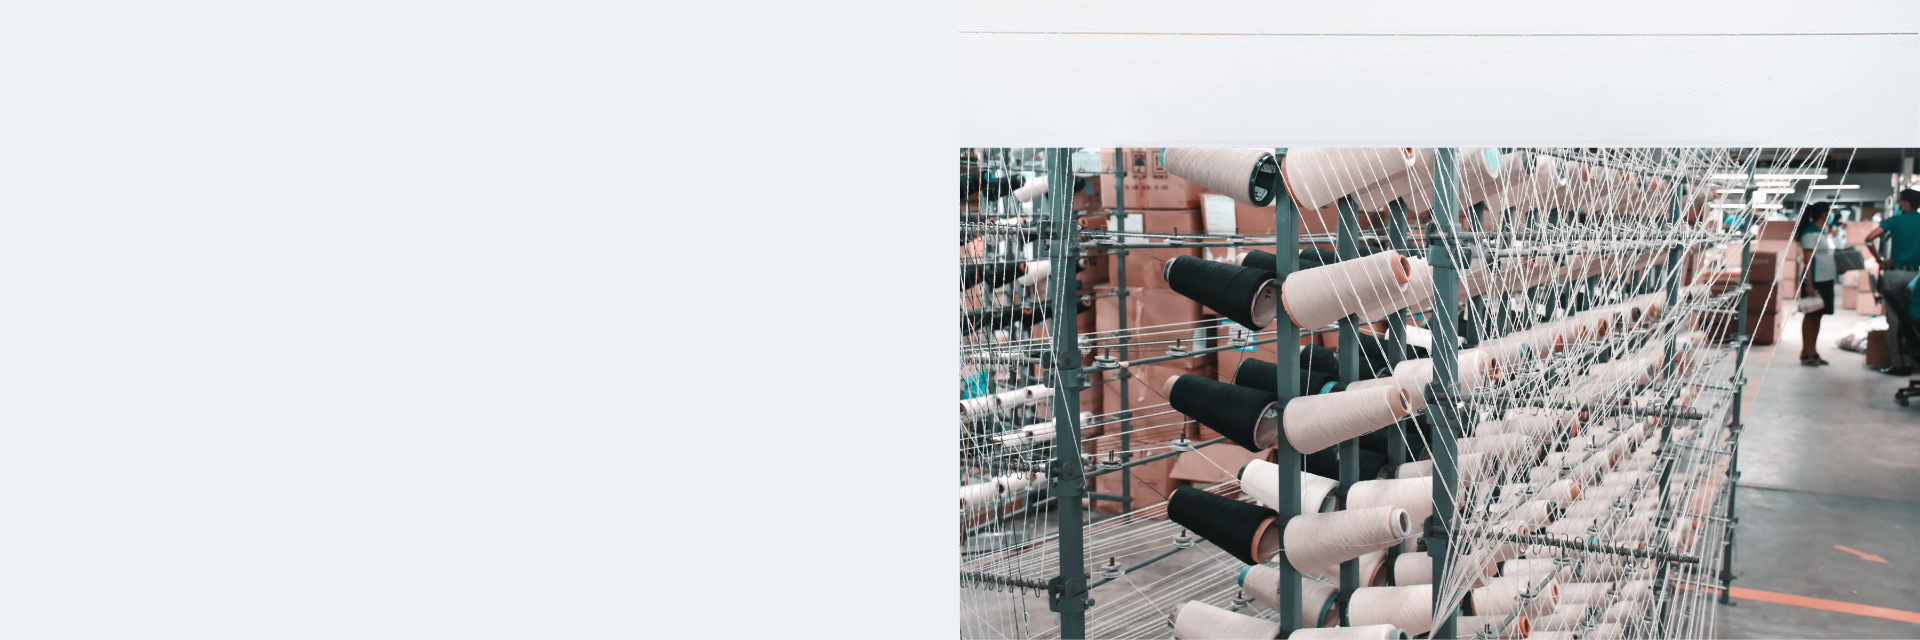
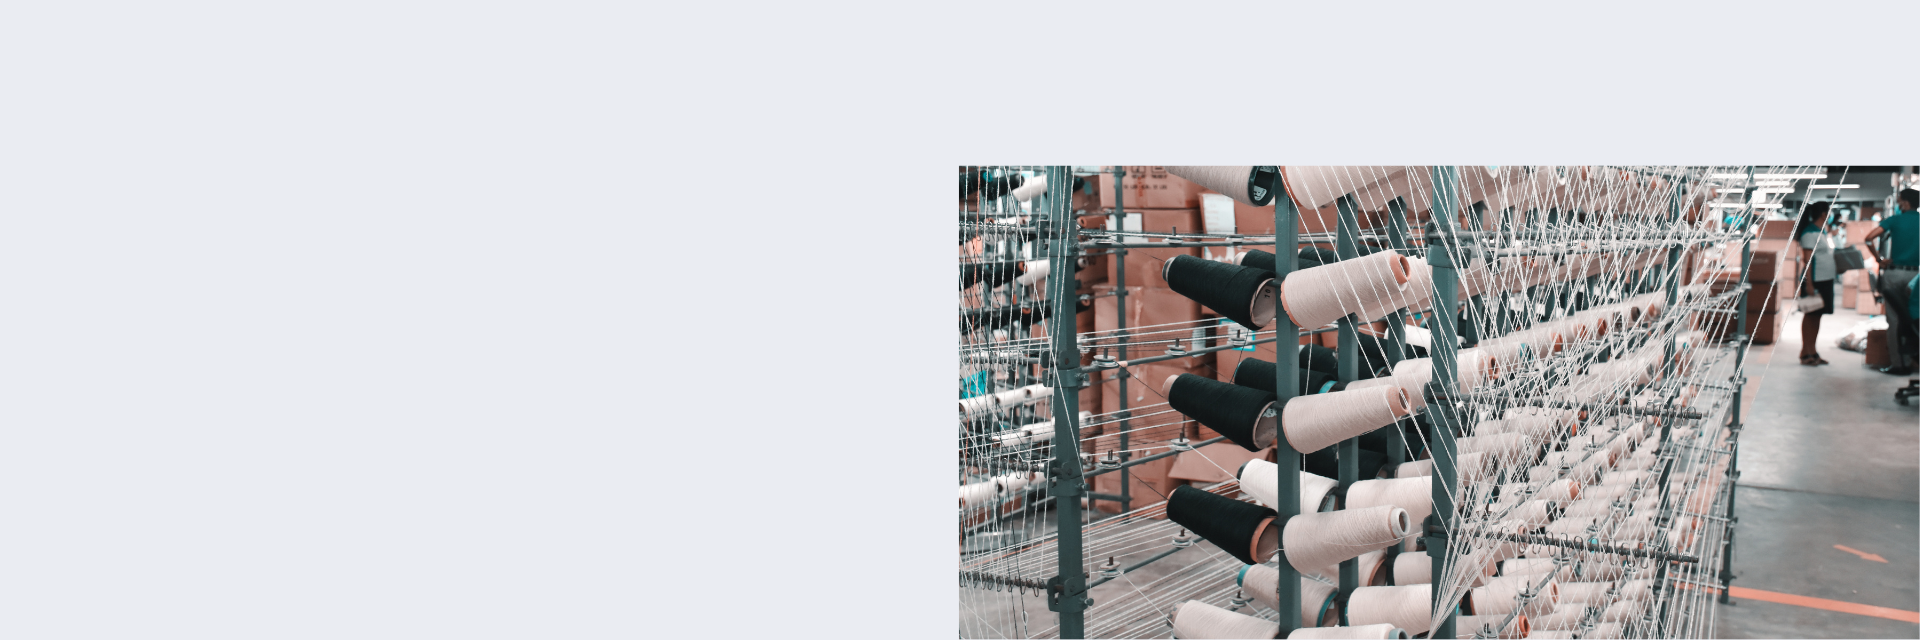
Header Images

diff --git a/technology.html b/technology.html
@@ -59,7 +59,7 @@
 			</header>
 		</div>
 		<div id="Content">
-			<div class="section mcb-section full-width" style="padding-top:125px;padding-bottom:125px;background-image:url(images/agency4-aboutus-header.jpg);background-repeat:repeat;background-position:center">
+			<div class="section mcb-section full-width" style="padding-top:125px;padding-bottom:125px;background-image:url(images/ProcessTechnologyHeader.png);background-repeat:repeat;background-position:center">
 				<div class="row" style="padding:30px 16%">
 					<div class="col-12">
 						<h2><span style="color: #479ef5;">Process & 

diff --git a/about.html b/about.html
@@ -61,7 +61,7 @@
 			</header>
 		</div>
 		<div id="Content">
-			<div class="section mcb-section full-width" style="padding-top:125px;padding-bottom:125px;background-image:url(images/headerimage.png); background-repeat:repeat;background-position:center">
+			<div class="section mcb-section full-width" style="padding-top:125px;padding-bottom:125px;background-image:url(images/Aboutusheader.png); background-repeat:repeat;background-position:center">
 				<div class="row" style="padding:30px 16%">
 					<div class="col-12">
 						<h2><span style="color: #479ef5;">About us 

diff --git a/brands.html b/brands.html
@@ -65,7 +65,7 @@
 
     <!-- Content -->
     <div id="Content">
-		<div class="section mcb-section full-width" style="padding-top:125px;padding-bottom:125px;background-image:url(images/agency4-aboutus-header.jpg);background-repeat:repeat;background-position:center">
+		<div class="section mcb-section full-width" style="padding-top:125px;padding-bottom:125px;background-image:url(images/BrandHeader.png);background-repeat:repeat;background-position:center">
 			<div class="row" style="padding:30px 16%">
 				<div class="col-12">
 					<h2><span style="color: #479ef5;">Our 

diff --git a/plants.html b/plants.html
@@ -69,7 +69,7 @@
 
 	 
 		<div id="Content">
-			<div class="section mcb-section full-width" style="padding-top:125px;padding-bottom:125px;background-image:url(images/agency4-aboutus-header.jpg);background-repeat:repeat;background-position:center">
+			<div class="section mcb-section full-width" style="padding-top:125px;padding-bottom:125px;background-image:url(images/PlantHeader.png);background-repeat:repeat;background-position:center">
 				<div class="row" style="padding:30px 16%">
 					<div class="col-12">
 						<h2><span style="color: #479ef5;">Plants and 

diff --git a/certifications.html b/certifications.html
@@ -61,7 +61,7 @@
 			</header>
 		</div>
 		<div id="Content">
-			<div class="section mcb-section full-width" style="padding-top:125px;padding-bottom:125px;background-image:url(images/agency4-portfolio-bg.jpg);background-repeat:no-repeat;background-position:center">
+			<div class="section mcb-section full-width" style="padding-top:125px;padding-bottom:125px;background-image:url(images/CertificationHeader.png);background-repeat:no-repeat;background-position:center">
 				<div class="">
 					<div class="row" style="padding:30px 16%">
 						<div class="col-12">

diff --git a/products.html b/products.html
@@ -59,7 +59,7 @@
 			</header>
 		</div>
 		<div id="Content">
-			<div class="section mcb-section full-width" style="padding-top:125px;padding-bottom:125px;background-image:url(images/agency4-portfolio-bg.jpg);background-repeat:no-repeat;background-position:center">
+			<div class="section mcb-section full-width" style="padding-top:125px;padding-bottom:125px;background-image:url(images/ProductHeader.png);background-repeat:no-repeat;background-position:center">
 				<div class="">
 					<div class="row" style="padding:30px 16%">
 						<div class="col-12">

diff --git a/blogs.html b/blogs.html
@@ -59,7 +59,7 @@
 			</header>
 		</div>
 		<div id="Content">
-			<div class="section mcb-section full-width" style="padding-top:125px;padding-bottom:125px;background-image:url(images/agency4-portfolio-bg.jpg);background-repeat:no-repeat;background-position:center">
+			<div class="section mcb-section full-width" style="padding-top:125px;padding-bottom:125px;background-image:url(images/BlogHeader.png);background-repeat:no-repeat;background-position:center">
 				<div class="">
 					<div class="row" style="padding:30px 16%">
 						<div class="col-12">

diff --git a/contact.html b/contact.html
@@ -60,7 +60,7 @@
 		</div>
 		<div id="Content">
 			<div class="section mcb-section full-width"
-				style="padding-top:125px; padding-bottom:125px; background-image:url('images/contact\ backkk.png'); background-position:center;">
+				style="padding-top:125px; padding-bottom:125px; background-image:url('images/ContactusHeader.png'); background-position:center;">
 
 				<div class="container">
 					<div class="row" style="padding:30px 0 0 12%">
